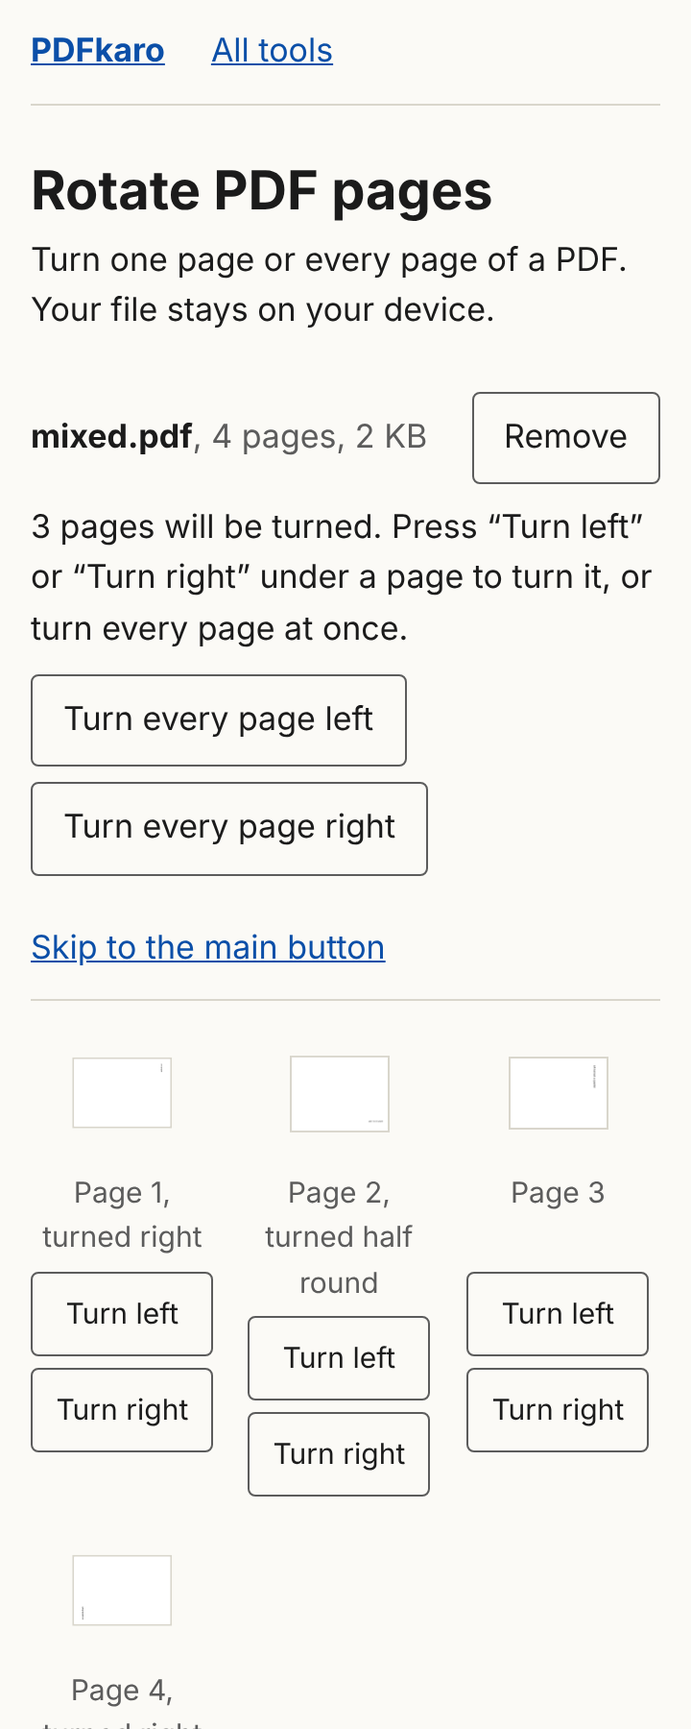
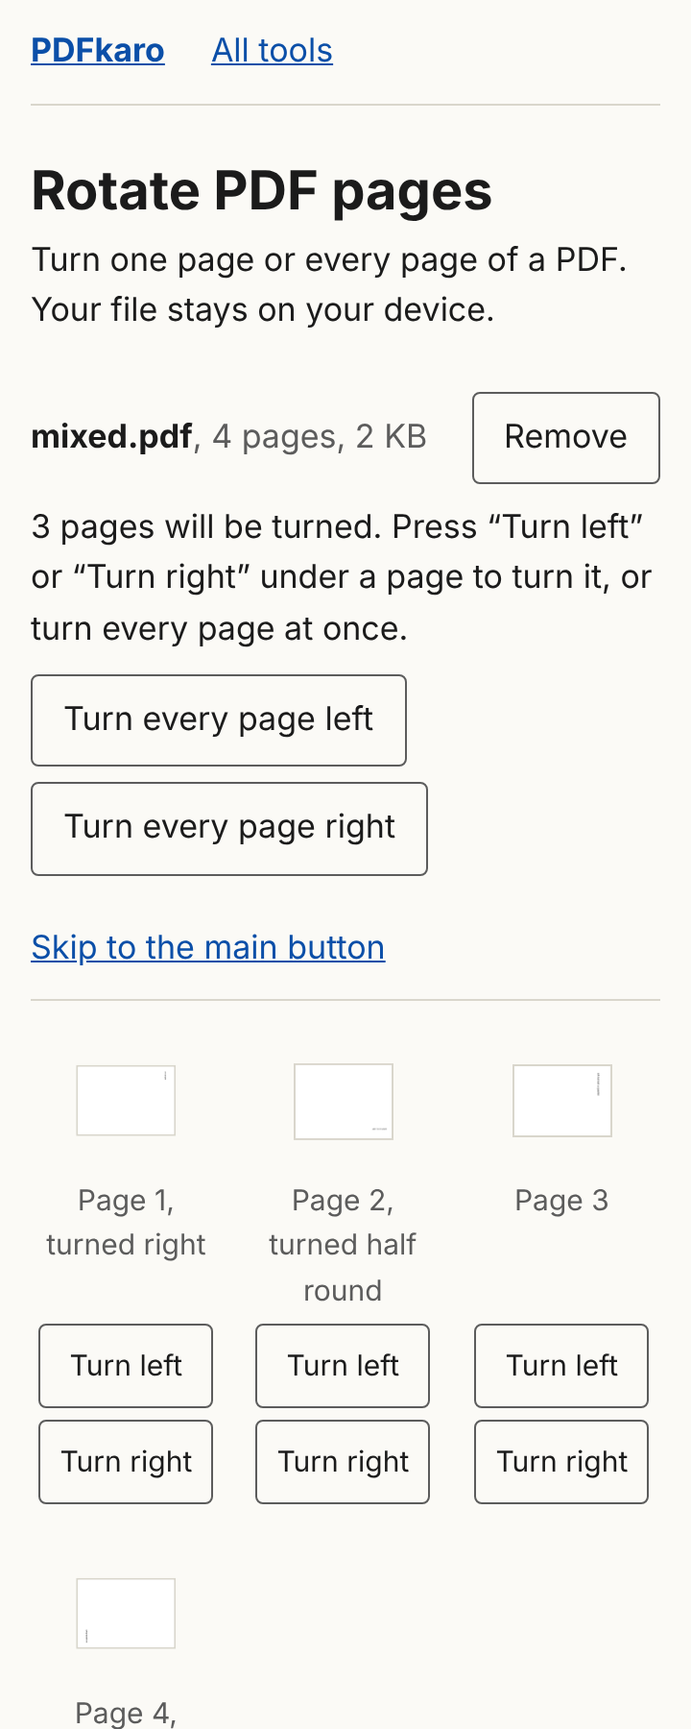
Rotate PDF: stage 2 fixes
The words say the file is written afresh: earlier saved versions are not
kept and a signature stops being valid. Grid cells get 4px of padding so
content-visibility no longer clips the focus ring, with an e2e check on
Rotate and Split. One turnChunk constant; turnsVersion and pageOf moved to
src/widget; three caption lines reserved.

Claude-Session: https://claude.ai/code/session_01Ht5n4xeEVAutobXrc7qGtN

diff --git a/src/components/ToolWorkspace/ToolWorkspace.tsx b/src/components/ToolWorkspace/ToolWorkspace.tsx
@@ -5,25 +5,10 @@ import { useFileDrop } from '../../hooks/useFileDrop';
 import { useToolRun } from '../../hooks/useToolRun';
 import { fileCount, formatSize, pageCount, progressLine } from '../../widget/format';
 import { failureSentence, workingLine } from '../../widget/failures';
-import { gridItems } from '../../widget/items';
+import { gridItems, pageOf } from '../../widget/items';
 import { orderSummary } from '../../widget/order';
-import { allAnnouncement, turnAnnouncement, turnCaption, turnedAll, turnedPage, turnOf, turnRules, type Turns } from '../../widget/turns';
+import { allAnnouncement, turnAnnouncement, turnCaption, turnChunk, turnedAll, turnedPage, turnOf, turnRules, turnsVersion, type Turns } from '../../widget/turns';
 
-/** How many drawn cells "Turn every page" reaches in each frame: one chunk of PageGrid's. */
-const turnBatch = 50;
-
-/** A number for each turns value, so a chunk of pages can tell whether the turns it shows have changed. */
-const versions = new WeakMap<Turns, number>();
-let nextVersion = 1;
-function turnsVersion(turns: Turns | null): number {
-  if (!turns) return 0;
-  let version = versions.get(turns);
-  if (version === undefined) {
-    version = nextVersion++;
-    versions.set(turns, version);
-  }
-  return version;
-}
 import { number, showMoreLabel, shownAnnouncement } from '../../widget/format';
 import { toggledMarks, toggleRules } from '../../widget/toggles';
 import { allReady, canRun, currentProblem, isLarge, isManyPages, manyPages, pageBatch, totals, type FileEntry } from '../../widget/state';
@@ -255,7 +240,7 @@ export default function ToolWorkspace({ toolId, accepts, words, firstFiles, onEm
             skip,
             drawsCut: rules.drawsCut,
             onToggle: (id: string) => {
-              const page = Number(id.slice(id.lastIndexOf(':') + 1));
+              const page = pageOf(id);
               const marked = !marks.includes(page);
               run.toggleMark(page);
               setAnnouncement(rules.announce(filePages, toggledMarks(marks, page), page, marked));
@@ -271,7 +256,7 @@ export default function ToolWorkspace({ toolId, accepts, words, firstFiles, onEm
   const onMove = useCallback(
     (id: string, to: number) => {
       if (!pageMoves) return run.moveFile(id, to);
-      run.movePage(Number(id.slice(id.lastIndexOf(':') + 1)), to);
+      run.movePage(pageOf(id), to);
     },
     [pageMoves, run],
   );
@@ -282,14 +267,14 @@ export default function ToolWorkspace({ toolId, accepts, words, firstFiles, onEm
   const turnLine = useMemo(() => (pageTurns && filePages > 0 ? turnRules.summary(state.turns, filePages) : null), [pageTurns, filePages, state.turns]);
   const turnsBlocked = pageTurns && filePages > 0 ? turnRules.blocked(state.turns, filePages) : null;
   // "Turn every page" changes every drawn cell's picture and caption. To keep each frame short on a
-  // slow phone, the new turns reach the drawn cells 100 a frame: pages up to `front` show the new
+  // slow phone, the new turns reach the drawn cells one chunk (`turnChunk`, 50) a frame: pages up to `front` show the new
   // turns, pages beyond it the turns from before the press. Rotate never moves pages, so a page's
   // number is its place in the grid.
   const [turnFront, setTurnFront] = useState<{ before: Turns | null; front: number } | null>(null);
   useEffect(() => {
     if (!turnFront) return;
     // Each frame moves the front on; once it has passed the drawn cells, the batching ends.
-    const frame = requestAnimationFrame(() => setTurnFront((now) => (now && now.front < drawn ? { ...now, front: now.front + turnBatch } : null)));
+    const frame = requestAnimationFrame(() => setTurnFront((now) => (now && now.front < drawn ? { ...now, front: now.front + turnChunk } : null)));
     return () => cancelAnimationFrame(frame);
   }, [turnFront, drawn]);
   const turns = useMemo(
@@ -297,15 +282,15 @@ export default function ToolWorkspace({ toolId, accepts, words, firstFiles, onEm
       pageTurns
         ? {
             of: (id: string) => {
-              const page = Number(id.slice(id.lastIndexOf(':') + 1));
+              const page = pageOf(id);
               return turnOf(turnFront && page > turnFront.front ? turnFront.before : state.turns, page);
             },
             caption: turnCaption,
             // A chunk of pages shows the new turns, the turns from before the press, or (only while
             // the front is inside it) a mix; its stamp changes only when what it shows does.
             stamp: (firstId: string, lastId: string) => {
-              const first = Number(firstId.slice(firstId.lastIndexOf(':') + 1));
-              const last = Number(lastId.slice(lastId.lastIndexOf(':') + 1));
+              const first = pageOf(firstId);
+              const last = pageOf(lastId);
               // The stamp is the version of the turns the chunk shows, so a chunk that keeps showing the same
               // turns (the ones from before the press, beyond the front) is not drawn again.
               if (!turnFront || last <= turnFront.front) return `${turnsVersion(state.turns)}`;
@@ -313,7 +298,7 @@ export default function ToolWorkspace({ toolId, accepts, words, firstFiles, onEm
               return `front:${turnFront.front}:${turnsVersion(state.turns)}`;
             },
             onTurn: (id: string, _title: string, by: 1 | -1) => {
-              const page = Number(id.slice(id.lastIndexOf(':') + 1));
+              const page = pageOf(id);
               // A single turn while the front is moving draws every cell with the current turns.
               setTurnFront(null);
               run.turnPage(page, by);
@@ -324,7 +309,7 @@ export default function ToolWorkspace({ toolId, accepts, words, firstFiles, onEm
     [pageTurns, state.turns, turnFront, run, setAnnouncement],
   );
   const turnEveryPage = (by: 1 | -1) => {
-    setTurnFront({ before: turnFront ? turnFront.before : state.turns, front: turnBatch });
+    setTurnFront({ before: turnFront ? turnFront.before : state.turns, front: turnChunk });
     run.turnAll(by);
     setAnnouncement(allAnnouncement(turnedAll(state.turns, by), by));
   };

diff --git a/tests/unit/turns.test.ts b/tests/unit/turns.test.ts
@@ -3,7 +3,8 @@
 
 import { describe, expect, it } from 'vitest';
 import { initialState, reducer, type State } from '../../src/widget/state';
-import { allAnnouncement, turnAnnouncement, turnCaption, turnedCount, turnOf, turnRules, turnsBlocked, turnSummary, turnsToSend } from '../../src/widget/turns';
+import { allAnnouncement, turnAnnouncement, turnCaption, turnedCount, turnOf, turnRules, turnsBlocked, turnSummary, turnsToSend, turnsVersion } from '../../src/widget/turns';
+import { pageOf } from '../../src/widget/items';
 
 function read(pages: number): State {
   let state = reducer(initialState, { type: 'added', files: [{ id: 'f1', name: 'report.pdf', size: 10 }] });
@@ -95,5 +96,20 @@ describe('counting and words', () => {
     expect(turnsToSend(null, 3)).toEqual({ all: 0, pages: [] });
     expect(turnsToSend({ all: 1, pages: { 9: 2, 2: 3 } }, 12)).toEqual({ all: 1, pages: [[2, 3], [9, 2]] });
     expect(turnRules.option({ all: 0, pages: { 1: 1 } }, 2)).toEqual({ turns: { all: 0, pages: [[1, 1]] } });
+  });
+});
+
+describe('chunk stamps', () => {
+  it('gives each turns value its own version, the same each time it is asked, and 0 for none', () => {
+    const one = { all: 1, pages: {} };
+    const two = { all: 1, pages: {} };
+    expect(turnsVersion(null)).toBe(0);
+    expect(turnsVersion(one)).toBe(turnsVersion(one));
+    expect(turnsVersion(one)).not.toBe(turnsVersion(two));
+  });
+
+  it('reads the page from a page item id', () => {
+    expect(pageOf('f1:3')).toBe(3);
+    expect(pageOf('file:with:colons:120000')).toBe(120000);
   });
 });

diff --git a/src/components/PageGrid/PageGrid.tsx b/src/components/PageGrid/PageGrid.tsx
@@ -1,4 +1,5 @@
 import { memo, useCallback, useEffect, useMemo, useRef, useState } from 'react';
+import { turnChunk } from '../../widget/turns';
 import styles from './PageGrid.module.css';
 
 export type GridItem = {
@@ -222,8 +223,8 @@ const PageItem = memo(function PageItem({ id, title, detail, thumbnail, first, l
   );
 });
 
-/** How many pages a chunk holds, for pages that turn. */
-const chunkSize = 50;
+/** How many pages a chunk holds, for pages that turn: the same number "Turn every page" reaches a frame. */
+const chunkSize = turnChunk;
 
 type ChunkProps = {
   items: GridItem[];
@@ -233,7 +234,12 @@ type ChunkProps = {
   itemProps(item: GridItem, index: number): ItemProps & { key: string };
 };
 
-/** A run of pages drawn together; drawn again only when its items, the list's length or its stamp change. */
+/**
+ * A run of pages drawn together; drawn again only when its items, the list's length or its stamp change.
+ * The stamp must change with everything else a cell shows. Chunks are used only for pages that turn,
+ * which have no moves and no toggle, so only the turns change; a tool that adds another per-page
+ * state must fold it into the stamp.
+ */
 const Chunk = memo(
   function Chunk({ items, start, itemProps }: ChunkProps) {
     return (

diff --git a/src/components/PageGrid/PageGrid.module.css b/src/components/PageGrid/PageGrid.module.css
@@ -126,7 +126,9 @@
 }
 /* A cut after this page: a 2px line on the cell's trailing edge. Every cell keeps room for it, so marking a cut moves nothing. */
 .cell {
-  padding-inline-end: 0.25rem;
+  /* Room on every side for a button's focus ring (2px outline, 2px offset), which the cell's paint
+     containment would otherwise clip. */
+  padding: 0.25rem;
   border-inline-end: 2px solid transparent;
 }
 .cut {
@@ -145,11 +147,11 @@
   padding: 0.25rem 0.375rem;
 }
 
-/* A page that turns: its caption keeps two lines, so a caption that wraps never moves the grid or the
+/* A page that turns: its caption keeps three lines ("Page 120, turned half round" can take three in a narrow cell), so a caption that wraps never moves the grid or the
    button that has focus. */
 .turnCaption {
-  min-height: 3.2em;
-  min-height: 2lh;
+  min-height: 4.8em;
+  min-height: 3lh;
 }
 /* A turned picture, at its own shape within the slot. For a quarter turn its limits are swapped
    before it turns, so once turned it is at most 52 wide and 68 tall. No transition. */

diff --git a/tests/e2e/split-pdf.spec.ts b/tests/e2e/split-pdf.spec.ts
@@ -232,6 +232,23 @@ test.describe('marking cuts and splitting', () => {
   });
 });
 
+test.describe('focus', () => {
+  test("a focused page button's ring stays inside its cell, so nothing clips it", async ({ page }) => {
+    await open(page);
+    await pick(page, 'text.pdf');
+    await page.getByRole('button', { name: 'Cut after page 1', exact: true }).focus();
+    const inside = await page.evaluate(() => {
+      const button = document.activeElement as HTMLElement;
+      const cell = button.closest('li')!;
+      const b = button.getBoundingClientRect();
+      const c = cell.getBoundingClientRect();
+      // The ring is a 2px outline 2px outside the button.
+      return b.left - 4 >= c.left - 0.5 && b.right + 4 <= c.right + 0.5 && b.bottom + 4 <= c.bottom + 0.5 && b.top - 4 >= c.top - 0.5;
+    });
+    expect(inside).toBe(true);
+  });
+});
+
 test.describe('problems with the file', () => {
   test('a protected file asks for its password, shows no pages until it opens, and its pages follow', async ({ page }) => {
     await open(page);

diff --git a/src/widget/turns.ts b/src/widget/turns.ts
@@ -82,3 +82,23 @@ export function turnsToSend(turns: Turns | null, pages: number): { all: number; 
 
 /** What ToolWorkspace and useToolRun ask of a tool whose pages turn, in one place. */
 export const turnRules = { summary: turnSummary, blocked: turnsBlocked, option: (turns: Turns | null, pages: number) => ({ turns: turnsToSend(turns, pages) }) };
+
+/**
+ * How many pages a chunk of the grid holds, and how many drawn pages "Turn every page" reaches in
+ * each frame. One number, so the front always lands on a chunk's edge and each frame draws one chunk.
+ */
+export const turnChunk = 50;
+
+const versions = new WeakMap<Turns, number>();
+let nextVersion = 1;
+
+/** A number for each turns value, so a chunk of pages can tell whether the turns it shows have changed. */
+export function turnsVersion(turns: Turns | null): number {
+  if (!turns) return 0;
+  let version = versions.get(turns);
+  if (version === undefined) {
+    version = nextVersion++;
+    versions.set(turns, version);
+  }
+  return version;
+}

diff --git a/tests/e2e/rotate-pdf.spec.ts b/tests/e2e/rotate-pdf.spec.ts
@@ -179,6 +179,23 @@ test.describe('turning pages', () => {
   });
 });
 
+test.describe('focus', () => {
+  test("a focused page button's ring stays inside its cell, so nothing clips it", async ({ page }) => {
+    await open(page);
+    await pick(page, 'text.pdf');
+    await left(page, 1).focus();
+    const inside = await page.evaluate(() => {
+      const button = document.activeElement as HTMLElement;
+      const cell = button.closest('li')!;
+      const b = button.getBoundingClientRect();
+      const c = cell.getBoundingClientRect();
+      // The ring is a 2px outline 2px outside the button.
+      return b.left - 4 >= c.left - 0.5 && b.right + 4 <= c.right + 0.5 && b.bottom + 4 <= c.bottom + 0.5 && b.top - 4 >= c.top - 0.5;
+    });
+    expect(inside).toBe(true);
+  });
+});
+
 test.describe('problems with the file', () => {
   test('a protected file asks for its password, then shows its pages', async ({ page }) => {
     await open(page);

diff --git a/src/tools/registry.ts b/src/tools/registry.ts
@@ -398,7 +398,7 @@ export const tools: Tool[] = [
       outputs: 'one',
       // The owner's decision of 13 Nov 2026 on passwords; only each page's turn changes.
       resultNotes: [
-        "Apart from the password, nothing changes but the way pages face: text, links, form fields, bookmarks, attached files, hidden text and the document's details are as they were.",
+        "Pages, text, links, form fields, bookmarks, attached files, hidden text and the document's details are kept. Earlier saved versions stored inside the file are not, and a digital signature will no longer be valid.",
         'The new file has no password and no restrictions, even if the file you chose had them.',
       ],
     },

diff --git a/src/widget/items.ts b/src/widget/items.ts
@@ -36,3 +36,8 @@ export function gridItems(state: Pick<State, 'files' | 'order'>, items: 'files' 
 export function shownItems(state: Pick<State, 'files' | 'shown' | 'order'>, items: 'files' | 'pages'): GridEntry[] {
   return gridItems(state, items, state.shown);
 }
+
+/** The page number in a page item's id, `${fileId}:${page}`. */
+export function pageOf(id: string): number {
+  return Number(id.slice(id.lastIndexOf(':') + 1));
+}

diff --git a/openspec/changes/add-rotate-pdf/design.md b/openspec/changes/add-rotate-pdf/design.md
@@ -4,7 +4,7 @@
 
 - **Reorder pages** (PR #12) gave pages in the grid a pair of stacked buttons, a `total` for long files, and a page order kept in the widget's state. It also added `writePages` in `src/engines/plain.ts`, which writes pages with no bookmark rewrite.
 - **Rotate PDF** needs a different pair ("Turn left" and "Turn right"), a turn per page in the state, a thumbnail drawn turned, and a qpdf write that changes each page's `/Rotate` and nothing else.
-- **qpdf turns pages** with `--rotate=+90:1-3,7`: the `+` adds to the turn a page already has, and the page list uses the same form as `--pages`. Several `--rotate` options can be given, one per angle. Only `/Rotate` changes; content, annotations, bookmarks and the rest are untouched.
+- **qpdf turns pages** with `--rotate=+90:1-3,7`: the `+` adds to the turn a page already has, and the page list uses the same form as `--pages`. Several `--rotate` options can be given, one per angle. On the pages, only `/Rotate` changes; content, annotations, bookmarks and the rest are kept. The whole file is written afresh, as for every page tool, so earlier saved versions inside it and objects nothing uses are not kept, and a digital signature stops being valid; the page says so.
 
 ## Goals and non-goals
 
@@ -33,7 +33,7 @@
             items: 'pages', itemControls: false, itemTurns: true, outputs: 'one', outputSuffix: 'rotated', resultPages: 'input',
             actionLabel: 'Turn and download', writingLabel: 'Writing the new file',
             doneHeading: 'Your new file is ready', failedHeading: 'The new file was not made.',
-            resultNotes: ['Apart from the password, nothing changes but the way pages face: text, links, form fields, bookmarks, attached files, hidden text and the document's details are as they were.',
+            resultNotes: ['Pages, text, links, form fields, bookmarks, attached files, hidden text and the document's details are kept. Earlier saved versions stored inside the file are not, and a digital signature will no longer be valid.',
                           'The new file has no password and no restrictions, even if the file you chose had them.'] } }
 ```
 
@@ -62,7 +62,7 @@
 
 - `PageGrid` gains `turns?: { of(id): number; caption(title, turn): string; onTurn(id, title, by): void }`. `PageGrid` reads each cell's turn with `of(id)` inside its map and passes the cell a plain number and caption, so a turn draws only the cells whose turn changed; `onTurn` goes through the one stable `actions` object, as `toggle` and `move` do, so `PageItem`'s memo holds. The items list itself does not change on a turn, so the focus effects keyed on it do not run. The caption's words come in as a prop, as `toggle.name` does. With it, each grid cell shows "Turn left" and "Turn right" stacked under "Page N", each as wide as the cell and at least 2.75rem tall, as Reorder's pair is built, named "Turn page N left" and "Turn page N right". No button is ever unavailable: a page turns round and round.
 - **The turned thumbnail.** `PageItem` gets `turn` (0 to 3) and its picture a class per turn (`turn1`, `turn2`, `turn3`), not an inline style. `turn2` rotates the picture 180°. `turn1` and `turn3` rotate it 90° and 270° and swap its limits to at most 68 wide and 52 tall, so once turned it is at most 52 wide and 68 tall: it fits the slot at its own shape, with no fixed scale, so a landscape page turned a quarter keeps its full size. The blank paper turns by the same classes. No transition ("Motion: none, apart from the progress bar"). The slot keeps its size, so the grid never moves. The picture is drawn by PDF.js with the turn the file already gives the page, so what the visitor sees is the result.
-- **The caption says the turn in words** (`turnCaption`), because the picture is hidden from screen readers and a half turn of blank paper looks like none. Cells that turn reserve two caption lines, so a caption that wraps never moves the grid or the button that has focus.
+- **The caption says the turn in words** (`turnCaption`), because the picture is hidden from screen readers and a half turn of blank paper looks like none. Cells that turn reserve three caption lines ("Page 120, turned half round" takes three in an 80px cell), so a caption that wraps never moves the grid or the button that has focus.
 - Focus stays on the button pressed (nothing moves, so no focus request is needed). Each grid cell's buttons read "Turn left" and "Turn right", stacked, named "Turn page N left" and "Turn page N right"; "Left" and "Right" alone would read as moving the page (the UX reviewer, stage 1).
 - **"Turn every page left" and "Turn every page right"** are two secondary buttons in `ToolWorkspace`, below the line that says what will happen and above "Skip to the main button", so the tab order is: the file's line, Remove, the two buttons, the skip link, the pages, the main button. They are shown once the pages are, and not for a one-page file. They dispatch `all-turned` and announce.
 - **The main button waits for a turn.** Like Extract with no page chosen, the main button is unavailable but focusable while no page will be turned, with `turnsBlocked`'s sentence tied to it. The turns are the job's input, not an option, as Extract's chosen pages are, so this reads "Defaults are set so the main button works" (Tool page anatomy, part 4) as the owner did for Extract; a "rotated" file with nothing turned would mislead a visitor sending off a sideways scan (the UX reviewer, stage 1). Reorder differs (its button works unmoved), so the pull request names it for the owner. `ToolWorkspace` asks for the blocked sentence as it does a toggle kind's.
@@ -105,7 +105,7 @@
 - **Performance** (`tests/e2e/performance.spec.ts`, run alone after the others): with the CPU slowed four times (Chromium's `Emulation.setCPUThrottlingRate`), "Turn every page right" with 500 pages drawn, and again with 1,000 shown, makes no task longer than 100 ms. "Turn every page" changes every drawn cell at once, unlike any other action, so this is where a slow phone would show it (the architect, stage 1). Built first without batching, it failed: 167 ms for 500 cells with the CPU slowed four times. So the fallback is built:
   - **"Turn every page" reaches the drawn cells 50 a frame.** Every cell's caption changes, so every drawn cell must draw again; doing that 50 at a time keeps each frame short. `ToolWorkspace` keeps the turns from before the press and a front that starts at 50 and grows by 50 a frame (100 left too little room, 108 to 115 ms in some runs with 1,000 cells) until it passes the cells drawn. `of(id)` gives the new turn for a page at or before the front and the old one beyond it. Rotate never moves pages, so a page's number is its place in the grid. `PageItem` is memoised on a plain turn and caption, so only the cells whose turn changed in that frame draw again.
   - **Batching alone was not enough.** With 1,000 cells drawn it still gave 108 to 133 ms in some runs, whatever the batch size, because each frame's render still walked all 1,000 cells. So `PageGrid` draws pages that turn in chunks of 50: a memoised `Chunk` per 50 pages, drawn again only when its items, the list's length or its stamp change. `turns.stamp(firstId, lastId)` comes from `ToolWorkspace` and says whether the chunk shows the new turns, the turns from before the press, or a mix while the front is inside it, using a version number for each turns value. The front moves one chunk a frame, so each frame draws one chunk. Turning a single page changes every chunk's stamp, one frame of about 50 ms with the CPU slowed four times. Tools whose pages do not turn are drawn as before, with no chunks.
-  - **Containment.** Even one chunk a frame took about 50 ms, because a caption changing in one page laid out the whole grid again. Each grid cell now has `contain: layout style`, so a change inside a page lays out that page only, and `content-visibility: auto` with `contain-intrinsic-size: auto 5rem auto 10rem`, so pages far off screen are not laid out or painted until they come near; the browser keeps each page's last size, so the grid does not move. This applies to every tool's page grid (Split, Extract, Delete, Reorder too), which only gains from it. Content skipped this way stays in the accessibility tree and in find-in-page; tests read captions by their text, not their rendered text.
+  - **Containment.** Even one chunk a frame took about 50 ms, because a caption changing in one page laid out the whole grid again. Each grid cell now has `contain: layout style`, so a change inside a page lays out that page only, and `content-visibility: auto` with `contain-intrinsic-size: auto 5rem auto 10rem`, so pages far off screen are not laid out or painted until they come near; the browser keeps each page's last size, so the grid does not move. This applies to every tool's page grid (Split, Extract, Delete, Reorder too). `content-visibility` also clips paint to each cell, which cut off the left and bottom of a focused button's ring (the architect, stage 2); every cell now has 4px of padding on each side, room for the 2px ring at its 2px offset, and an end-to-end test on Rotate and Split checks the ring stays inside the cell. A cell never yet drawn takes the placeholder height until it first comes near the screen, so a long file's scrollbar is rough until scrolled; scroll anchoring keeps the view still. Content skipped this way stays in the accessibility tree and in find-in-page; tests read captions by their text, not their rendered text.
   - The status region and the line above the pages say the new turns at once; only the pictures and captions follow over a few frames.
   - Turning a single page while the front is still moving ends the batching and draws every cell with the current turns, so no cell ever shows a turn that is out of date.
 

diff --git a/openspec/changes/add-rotate-pdf/tasks.md b/openspec/changes/add-rotate-pdf/tasks.md
@@ -19,16 +19,16 @@
 
 ## 5. Page and page text
 
-- [x] 5.1 `PageGrid`: a `turns` prop (`of`, `caption`, `onTurn`; the turn read inside the map, `onTurn` through the stable `actions`) giving each grid cell "Turn left" and "Turn right" stacked full-width, named "Turn page N left/right", no Remove, never unavailable; the caption from `turnCaption` ("Page 3, turned right"), with two lines reserved in cells that turn; the picture and blank paper drawn turned by `turn1`, `turn2` and `turn3` classes, quarter turns swapping the limits to 68 wide and 52 tall before rotating, with no fixed scale and no transition; component tests that a landscape page turned a quarter keeps its full size, that the caption reads "Page 3, turned right", and that rows and Reorder's moves are unchanged
+- [x] 5.1 `PageGrid`: a `turns` prop (`of`, `caption`, `onTurn`; the turn read inside the map, `onTurn` through the stable `actions`) giving each grid cell "Turn left" and "Turn right" stacked full-width, named "Turn page N left/right", no Remove, never unavailable; the caption from `turnCaption` ("Page 3, turned right"), with three lines reserved in cells that turn; the picture and blank paper drawn turned by `turn1`, `turn2` and `turn3` classes, quarter turns swapping the limits to 68 wide and 52 tall before rotating, with no fixed scale and no transition; component tests that a landscape page turned a quarter keeps its full size, that the caption reads "Page 3, turned right", and that rows and Reorder's moves are unchanged
 - [x] 5.2 `ToolWorkspace` and `useToolRun`: turning a page and announcing it, "Turn every page left" and "Turn every page right" between the line and the skip link (not for one page), the line above the pages memoised on the turns, the main button unavailable with its tied sentence while nothing will be turned, and `{ turns }` sent to the engine
-- [x] 5.3 Write `src/content/tools/rotate-pdf.md`, 250 to 500 words, marked as a draft, covering turning one page or all; that only quarter turns are made, so a crooked scan is not straightened; that everything else in the original file stays in the new one, including hidden text and the document's details (it is not cleaned), and only each page's turn changes; the original file; that the password and restrictions are removed; and that the page forgets the file and the turns when you press Start again or leave the page; check against "Banned patterns"
+- [x] 5.3 Write `src/content/tools/rotate-pdf.md`, 250 to 500 words, marked as a draft, covering turning one page or all; that only quarter turns are made, so a crooked scan is not straightened; that nothing on the pages or in the document's parts is removed, including hidden text and the document's details, but the file is written afresh, so earlier saved versions inside it are not kept and a digital signature stops being valid; the original file; that the password and restrictions are removed; and that the page forgets the file and the turns when you press Start again or leave the page; check against "Banned patterns"
 - [x] 5.4 Name `rotate-pdf` in `page-weight.mjs`; check `check-worker.mjs` finds the engine and keeps `writeTurned` out of the worker file
 
 ## 6. End-to-end test
 
 - [x] 6.1 `tests/e2e/rotate-pdf.spec.ts` at 360px and 1280px: turning by keyboard with announcement, caption and focus, turning back, the main button unavailable with nothing turned and usable after a turn, "Turn every page right" with the next batch of a 900-page file drawn turned, turn and check each page's turn in the download (`mixed.pdf`), password, damaged, not-a-PDF, two-file drop, Cancel keeps the turns, engine-load failure, skip link, and the 20,000-page notice with "Turn every page right" and a page's "Turn right" on the generated file blocking nothing for more than 100 ms; the other tools' e2e tests still pass
 
-- [x] 6.2 In `tests/e2e/performance.spec.ts`, with the CPU slowed four times, "Turn every page right" with 500 pages drawn and with 1,000 shown makes no task longer than 100 ms; it failed unbatched (167 ms), so the design now applies the turns to the drawn cells 50 a frame, draws pages that turn in memoised chunks of 50 with a stamp each, and gives grid cells layout containment and `content-visibility: auto`; this test must pass with that, five runs in a row
+- [x] 6.2 (with every grid cell padded 4px so the focus ring is not clipped, checked by an e2e test on Rotate and Split) In `tests/e2e/performance.spec.ts`, with the CPU slowed four times, "Turn every page right" with 500 pages drawn and with 1,000 shown makes no task longer than 100 ms; it failed unbatched (167 ms), so the design now applies the turns to the drawn cells 50 a frame, draws pages that turn in memoised chunks of 50 with a stamp each, and gives grid cells layout containment and `content-visibility: auto`; this test must pass with that, five runs in a row
 
 ## 7. No-upload test
 

diff --git a/openspec/changes/add-rotate-pdf/proposal.md b/openspec/changes/add-rotate-pdf/proposal.md
@@ -14,7 +14,7 @@ Rotate PDF is sixth in the catalogue ("Organise pages", Phase 1), after Merge, S
   - A turn is announced in the caption's words: "Page 3 is now turned right.", "… turned half round.", "… turned left." or "Page 3 is back the way it was."; for every page, where every page now is, or "Every page turned right." when some are turned on their own.
   - A line above the pages says what will happen: "No pages will be turned. Press “Turn left” or “Turn right” under a page to turn it, or turn every page at once.", "3 pages will be turned." or "Every page will be turned."
 - **The main button, "Turn and download",** gives one PDF with every page, each turned as shown, named `report-rotated.pdf`. While no page will be turned it is unavailable but focusable, with "Turn a page to make a new file." tied to it, as Extract does with no page chosen, so the page never offers a "rotated" file that is not turned.
-- **What the new file keeps:** every page and everything on it, untouched; only each page's turn changes (its `/Rotate`), so text, links, form fields, notes, bookmarks, attachments, details and tags stay as they were. It has no password and no restrictions, by the owner's decision of 13 Nov 2026 that names Rotate PDF. The page says so.
+- **What the new file keeps:** every page and everything on it; each page's turn (its `/Rotate`) changes, and text, links, form fields, notes, bookmarks, attachments, details and tags stay. The file is written afresh by qpdf, so earlier saved versions stored inside it (and objects nothing uses) are not kept, and a digital signature stops being valid; the page says so (the privacy reviewer, stage 2). It has no password and no restrictions, by the owner's decision of 13 Nov 2026 that names Rotate PDF. The page says so.
 - **Shared code:**
   - **Page turns in the widget's state:** a turn for every page (`all`, 0 to 3 quarters) and a turn for single pages on top of it, so turning all pages of a 120,000-page file is one number, not 120,000. Forgotten when the file is removed or replaced; kept through Cancel and failure.
   - **`PageGrid`** gains a per-page pair of actions for a tool that turns pages, built like Reorder's moves, and draws a thumbnail turned.
